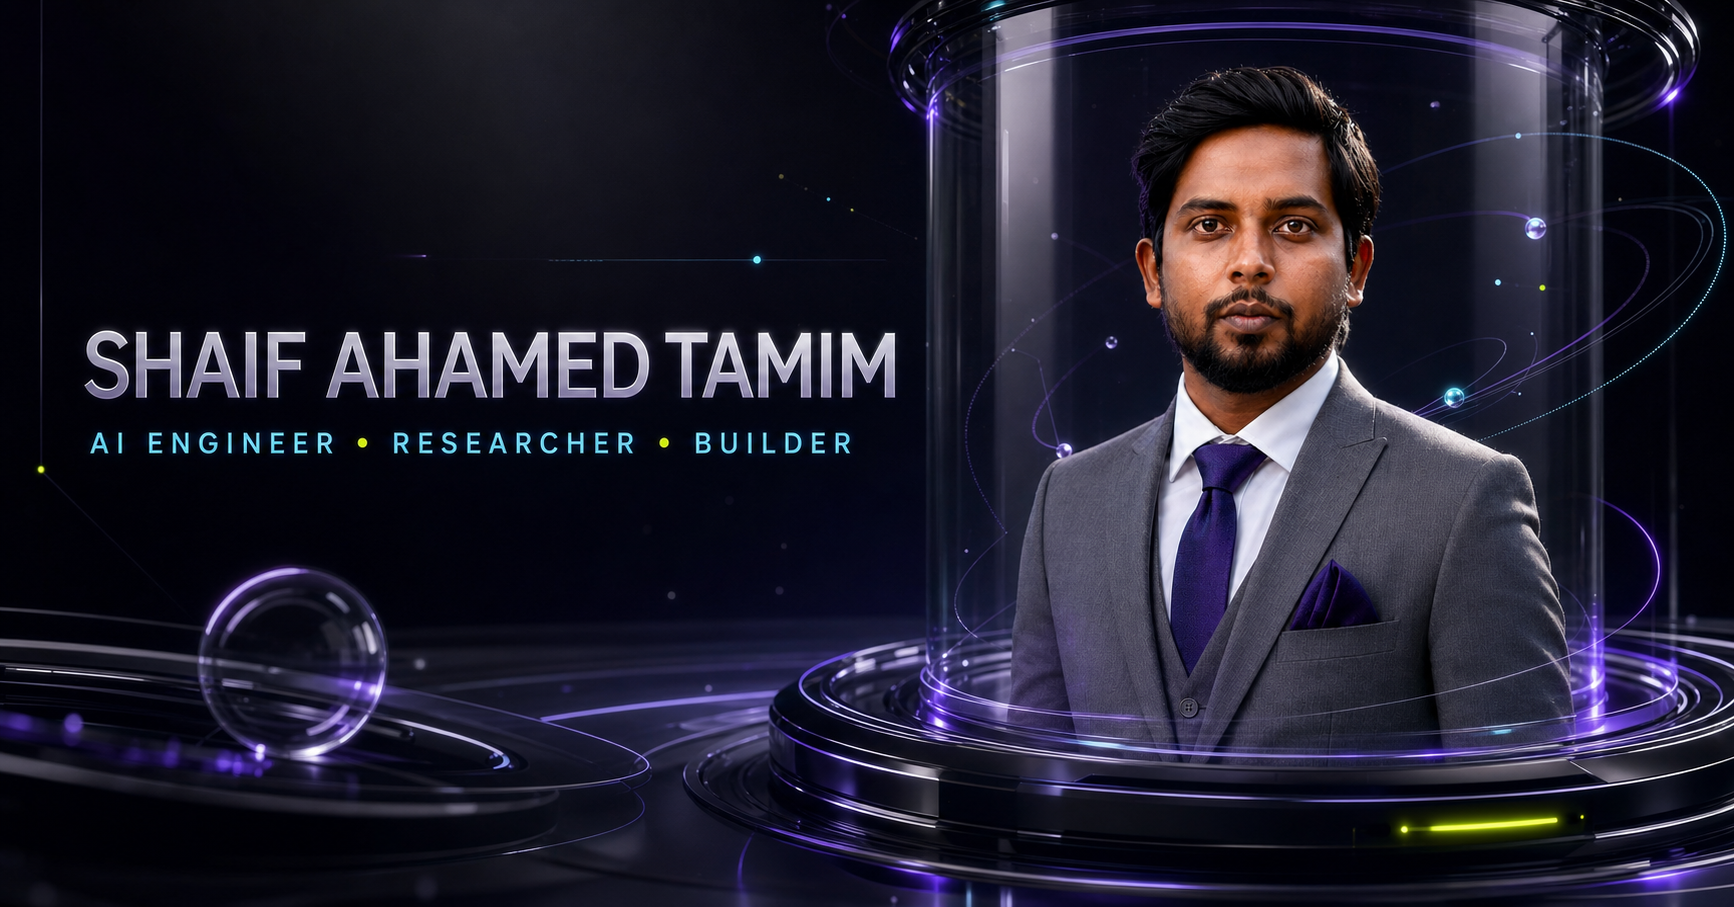
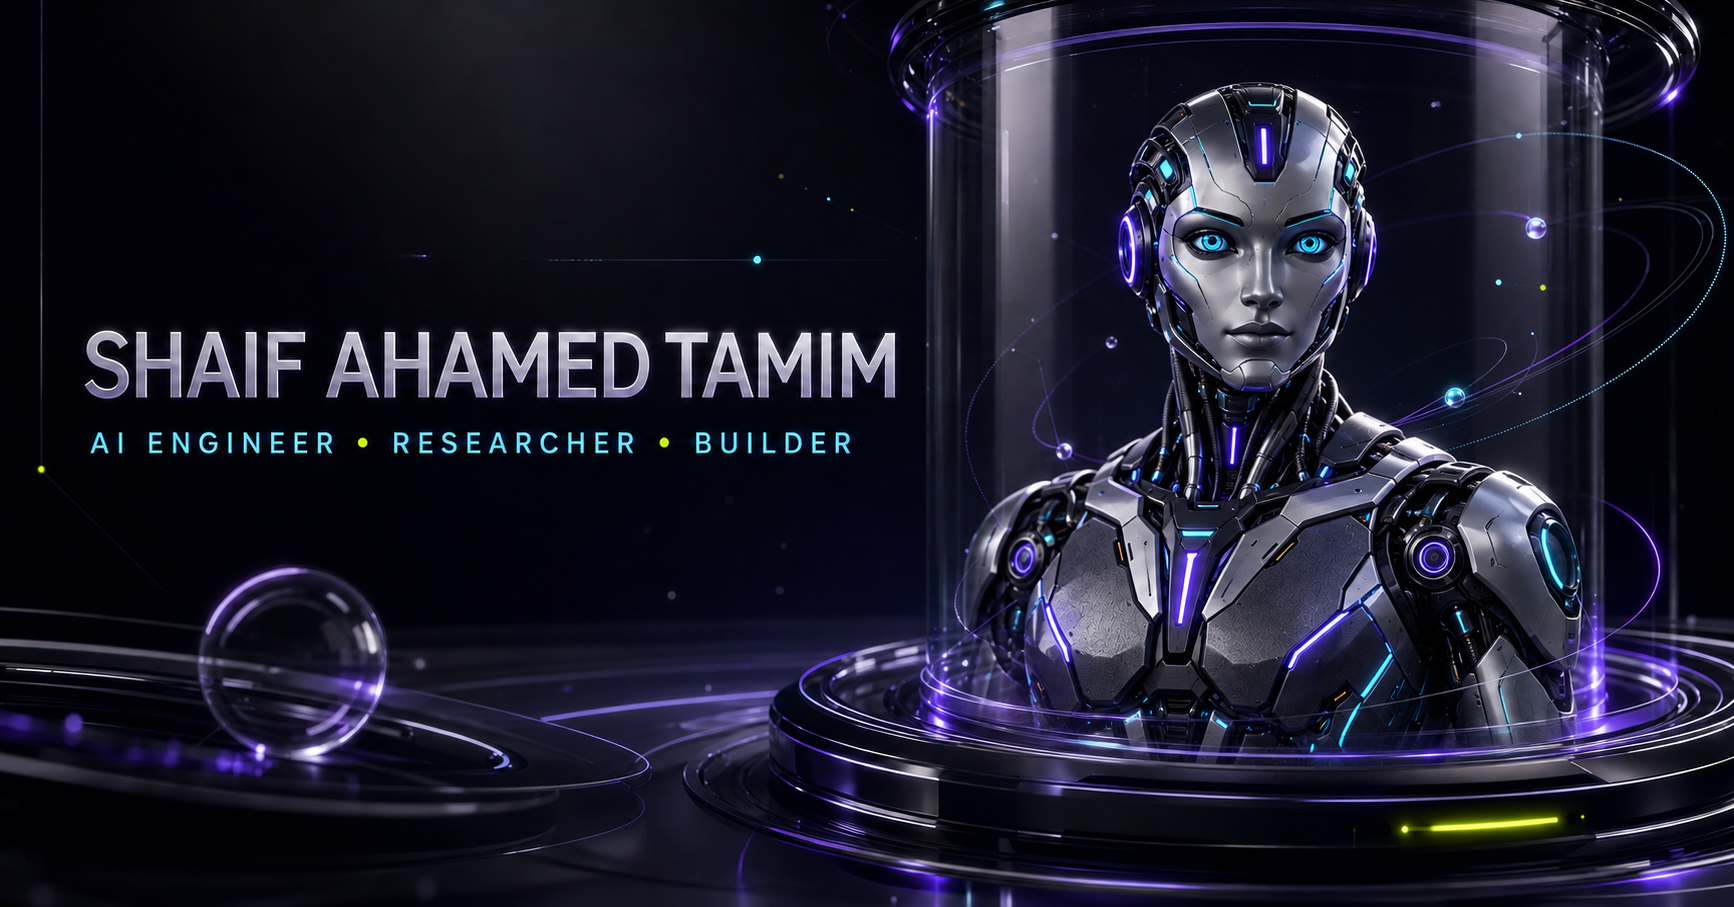
Replace portfolio hero portrait with futuristic robot

diff --git a/app/portfolio-experience.tsx b/app/portfolio-experience.tsx
@@ -243,7 +243,7 @@ export function PortfolioExperience() {
         <div className="hero-artwork-frame">
           <Image
             src="/og.png"
-            alt="Shaif Ahamed Tamim in a futuristic glass chamber with the title AI Engineer, Researcher, Builder"
+            alt="A futuristic humanoid robot in a luminous glass chamber beside the title Shaif Ahamed Tamim — AI Engineer, Researcher, Builder"
             fill
             sizes="100vw"
             priority
